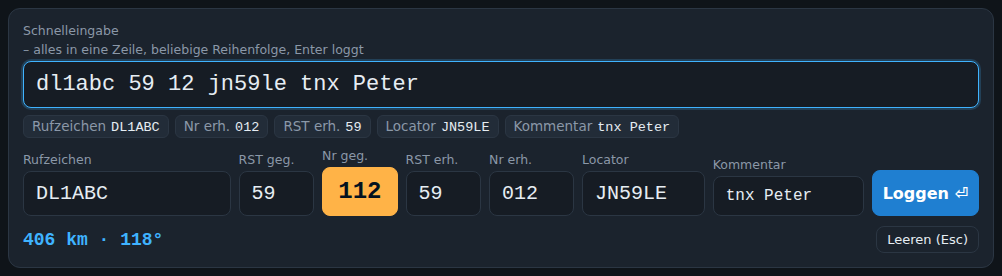
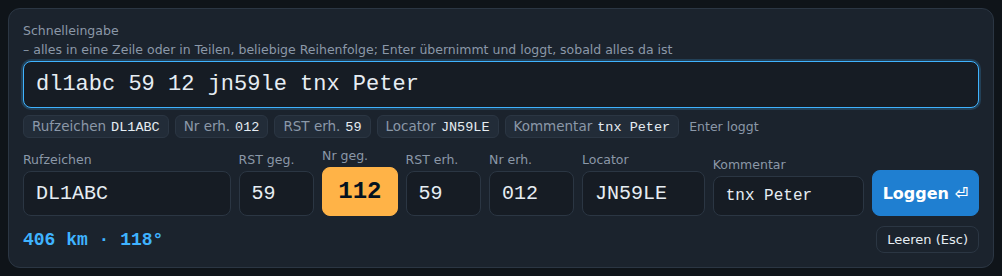
Schnelleingabe in Teilen mit Enter und wahlweise unter den Eingabefeldern
- Enter übernimmt das Getippte ins QSO und leert die Zeile für den nächsten Teil (z. B. erst „DL1ABC“, dann „012 57“);
  sobald Rufzeichen, Locator und je nach Contest Nr erh. bzw. DOK erh. da sind, loggt Enter
- Enter auf leerer Zeile loggt auch ohne Nr erh.; fehlt noch etwas, sagt ein Hinweis was
- Neue Teile ersetzen den übernommenen Wert im selben Feld (Korrektur), Kommentare werden angehängt; ist die Nummer
  schon übernommen, gilt eine einzelne RST-Zahl (57) als RST
- Unter den erkannten Teilen steht „Enter loggt“ bzw. „noch fehlt: …“; Änderungen von Hand in den Feldern zählen als übernommen
- ⚙ Einstellungen: Position der Schnelleingabe über oder unter den Eingabefeldern (je Browser)
- Behoben: nach dem Loggen ging der Cursor in der Schnelleingabe verloren
- Hilfe, README und Wiki (Loggen, Tastenkürzel, Erste Schritte) angepasst, Bilder neu

Changed region(s): [[0.1238, 0.1449, 0.6806, 0.2029], [0.6806, 0.4348, 0.7735, 0.4928]]

diff --git a/contestlogger/static/app.js b/contestlogger/static/app.js
@@ -6,6 +6,7 @@
   const S = {
     nick: localStorage.getItem("cl.nick") || "",
     quick: localStorage.getItem("cl.quick") === "1",  // Schnelleingabe (eine Zeile) – je Browser
+    quickPos: localStorage.getItem("cl.quickPos") === "below" ? "below" : "above",  // Zeile über oder unter den Feldern
     adminToken: localStorage.getItem("cl.admin") || "",
     stationTokens: JSON.parse(localStorage.getItem("cl.stationTokens") || "{}"),
     contests: [],
@@ -302,8 +303,9 @@
   // ------------------------------------------------------------ Einstellungen (je Browser): Nutzername, Sprache, Schnelleingabe
   function settingsDialog() {
     const box = modal(fromTpl("tpl-settings"));
-    const nick = box.querySelector("#set-nick"), lang = box.querySelector("#set-lang"), quick = box.querySelector("#set-quick");
-    nick.value = S.nick; quick.checked = S.quick;
+    const nick = box.querySelector("#set-nick"), lang = box.querySelector("#set-lang"), quick = box.querySelector("#set-quick"), pos = box.querySelector("#set-quickpos");
+    nick.value = S.nick; quick.checked = S.quick; pos.value = S.quickPos;
+    const showPos = () => pos.closest("label").classList.toggle("hidden", !quick.checked); showPos(); quick.addEventListener("change", showPos);
     fillLangSelect(lang);
     setTimeout(() => nick.focus(), 30);
     box.querySelector("#settings-form").addEventListener("submit", (e) => {
@@ -315,7 +317,8 @@
         S.nick = n; save(); $("#nick-badge").textContent = S.nick;
         if (S.ws) { try { S.ws.close(); } catch (_) { /* */ } }  // neu verbinden, damit Chat und Nutzerliste den neuen Namen zeigen
       }
-      S.quick = quick.checked; localStorage.setItem("cl.quick", S.quick ? "1" : "0"); applyQuickMode();
+      S.quick = quick.checked; localStorage.setItem("cl.quick", S.quick ? "1" : "0");
+      S.quickPos = pos.value === "below" ? "below" : "above"; localStorage.setItem("cl.quickPos", S.quickPos); applyQuickMode();
       closeModal();
       if ($("#view-log").classList.contains("active")) setTimeout(() => (S.quick ? Q : F.call).focus(), 30);
       if (langChanged) { localStorage.setItem("cl.lang", lang.value); location.reload(); return; }
@@ -654,7 +657,7 @@
     F.call.value = ""; F.rs.value = "59"; F.rr.value = "59"; F.nr.value = ""; F.dok.value = ""; F.loc.value = ""; F.cmt.value = "";
     S.locAuto = false; F.loc.classList.remove("auto"); F.dok.classList.remove("auto");
     S.editingId = null; $("#qso-form button.primary").textContent = t("Loggen ⏎");
-    Q.value = ""; S.quickRes = null;
+    Q.value = ""; S.quickRes = null; S.quickBase = emptyQuick();
     hideSuggest(); updateHints(); (S.quick ? Q : F.call).focus();
   }
   $("#btn-clear")?.addEventListener("click", clearForm);
@@ -703,38 +706,61 @@
   F.call.addEventListener("blur", () => setTimeout(hideSuggest, 150));
   F.nr.addEventListener("blur", () => { if (/^\d+$/.test(F.nr.value)) F.nr.value = pad3(Number(F.nr.value)); });
 
-  // ---- Schnelleingabe: alles in eine Zeile („DL1ABC JO31AA 012 57 G01“, beliebige Reihenfolge), Enter loggt.
-  // Die Zeile füllt live die normalen Felder (die sich weiter von Hand korrigieren lassen); eigene Angaben (RST geg.,
-  // Nr geg.) bleiben unberührt. Ein- und ausschalten je Browser über ⚙ Einstellungen.
+  // ---- Schnelleingabe: alles in eine Zeile („DL1ABC JO31AA 012 57 G01“, beliebige Reihenfolge) – oder in mehreren
+  // Schritten: Enter übernimmt das Getippte ins QSO und leert die Zeile; sobald alles Nötige da ist (Rufzeichen, Locator,
+  // Nr erh. bzw. DOK erh.), loggt Enter. Enter auf leerer Zeile loggt auch ohne Nr erh. Die Zeile füllt live die normalen
+  // Felder (die sich weiter von Hand korrigieren lassen); eigene Angaben (RST geg., Nr geg.) bleiben unberührt.
+  // Ein/aus und Position (über/unter den Feldern) je Browser über ⚙ Einstellungen.
+  const emptyQuick = () => ({ call: "", locator: "", serial: "", rst: "", dok: "", comment: "" });
+  S.quickBase = emptyQuick();  // schon mit Enter übernommene (oder von Hand in die Felder getippte) Angaben
   function applyQuickMode() {
-    $("#quick-row").classList.toggle("hidden", !S.quick);
+    const row = $("#quick-row"), fields = $("#qso-form .fields");
+    // nur umhängen, wenn sich die Position ändert – jedes Umhängen nimmt dem Eingabefeld den Fokus
+    if (S.quickPos === "below" && fields.nextElementSibling !== row) fields.after(row);
+    else if (S.quickPos !== "below" && row.nextElementSibling !== fields) fields.before(row);
+    row.classList.toggle("below", S.quickPos === "below");
+    row.classList.toggle("hidden", !S.quick);
     $("#qso-form").classList.toggle("quick", S.quick);
     Q.placeholder = hasDok() ? (hasSerial() ? "DL1ABC JO31AA 012 57 G01" : "DL1ABC JO31AA G01 57") : "DL1ABC JO31AA 012 57";
     renderQuick();
   }
   function applyQuick() {
-    const st = station() || {};
-    const r = BeamQuick.parse(Q.value, { mode: st.mode, serial: hasSerial(), dok: hasDok() });
-    const callChanged = F.call.value !== r.call;
-    F.call.value = r.call;
-    if (r.locator) { F.loc.value = r.locator; S.locAuto = false; F.loc.classList.remove("auto"); }
+    const st = station() || {}, b = S.quickBase;
+    const r = BeamQuick.parse(Q.value, { mode: st.mode, serial: hasSerial(), dok: hasDok(), haveSerial: !!b.serial, haveRst: !!b.rst });
+    // Neues aus der Zeile ersetzt das Übernommene im selben Feld (Korrektur), der Kommentar wird ergänzt
+    const m = { call: r.call || b.call, locator: r.locator || b.locator, serial: r.serial || b.serial, rst: r.rst || b.rst,
+      dok: r.dok || b.dok, comment: [b.comment, r.comment].filter(Boolean).join(" ") };
+    const callChanged = F.call.value !== m.call;
+    F.call.value = m.call;
+    if (m.locator) { F.loc.value = m.locator; S.locAuto = false; F.loc.classList.remove("auto"); }
     else if (!S.locAuto || callChanged) { F.loc.value = ""; S.locAuto = false; F.loc.classList.remove("auto"); }
-    if (r.dok) { F.dok.value = r.dok; F.dok.classList.remove("auto"); }
+    if (m.dok) { F.dok.value = m.dok; F.dok.classList.remove("auto"); }
     else if (!F.dok.classList.contains("auto") || callChanged) { F.dok.value = ""; F.dok.classList.remove("auto"); }
-    F.nr.value = r.serial; F.rr.value = r.rst || "59"; F.cmt.value = r.comment;
-    if (callChanged) { clearTimeout(lookupTimer); hideAltLocs(); if (r.call.length >= 3) lookupTimer = setTimeout(lookupCall, 150); }
-    S.quickRes = r;
+    F.nr.value = m.serial; F.rr.value = m.rst || "59"; F.cmt.value = m.comment;
+    if (callChanged) { clearTimeout(lookupTimer); hideAltLocs(); if (m.call.length >= 3) lookupTimer = setTimeout(lookupCall, 150); }
+    S.quickRes = { ...m, notes: r.notes };
     updateHints(); sendTyping();
-    return r;
+    return S.quickRes;
   }
+  function quickFromFields() {  // Felder von Hand geändert: zählt als übernommen
+    S.quickBase = { call: F.call.value.trim().toUpperCase(), locator: S.locAuto ? "" : F.loc.value.trim().toUpperCase(), serial: F.nr.value.trim(),
+      rst: F.rr.value.trim() === "59" ? "" : F.rr.value.trim(), dok: F.dok.classList.contains("auto") ? "" : F.dok.value.trim().toUpperCase(), comment: F.cmt.value.trim() };
+    S.quickRes = { ...S.quickBase, notes: [] };
+  }
+  const quickMissing = (full) => [
+    F.call.value.trim().length < 3 && t("Rufzeichen"),
+    full && hasSerial() && !F.nr.value.trim() && t("Nr erh."),
+    hasDok() && !F.dok.value.trim() && t("DOK erh."),
+    F.loc.value.trim().length < 4 && t("Locator"),
+  ].filter(Boolean);
   function hideAltLocs() { $("#hint-altloc").classList.add("hidden"); }
   function renderQuick() {
     const box = $("#quick-parsed"); if (!box) return;
     box.innerHTML = "";
     if (!S.quick) return;
     const r = S.quickRes;
-    if (!r || !Q.value.trim()) {
-      box.append(t("Erkannt werden Rufzeichen, Locator, Nr erh., RST erh. (51–59, CW 511–599; sonst „r44“) und DOK – Reihenfolge egal."));
+    if (!r || (!Q.value.trim() && !Object.values(S.quickBase).some(Boolean))) {
+      box.append(t("Erkannt werden Rufzeichen, Locator, Nr erh., RST erh. (51–59, CW 511–599; sonst „r44“) und DOK – Reihenfolge egal; Enter übernimmt und loggt, sobald alles da ist."));
       return;
     }
     const chip = (label, val, cls = "") => box.append(el("span", { class: "qp " + cls }, el("b", {}, label), val));
@@ -745,19 +771,27 @@
     chip(t("Locator"), F.loc.value || "–", F.loc.value ? (S.locAuto ? "auto" : "") : "miss");
     if (F.cmt.value) chip(t("Kommentar"), F.cmt.value);
     for (const n of r.notes) if (n.kind === "ambiguous") chip("⚠", t("{a} / {b}: RST oder Nummer? Eindeutig mit r57 bzw. #12", { a: n.values[0], b: n.values[1] }), "warn");
+    const miss = quickMissing(true);
+    box.append(el("span", { class: "qp-state" }, miss.length ? t("Enter übernimmt – noch fehlt: {f}", { f: miss.join(", ") }) : t("Enter loggt")));
   }
   Q.addEventListener("input", applyQuick);
   Q.addEventListener("keydown", async (e) => {
     if (e.key !== "Enter") return;
     e.preventDefault();
+    const typed = Q.value.trim() !== "";
     applyQuick();
-    if (F.call.value.trim().length < 3) { toast(t("Schnelleingabe: kein Rufzeichen erkannt"), "err"); return; }
-    if (F.loc.value.trim().length < 4) await lookupCall();  // Locator noch nicht aus der Stationsdatenbank geholt?
-    if (F.loc.value.trim().length < 4) { renderQuick(); toast(t("Schnelleingabe: Locator fehlt"), "err"); return; }
-    if (hasDok() && !F.dok.value.trim()) { toast(t("Schnelleingabe: DOK fehlt"), "err"); return; }
-    submitQso();
+    if (typed) { const { notes, ...m } = S.quickRes; S.quickBase = m; Q.value = ""; }  // übernehmen, Zeile frei für den nächsten Teil
+    if (F.call.value.trim().length >= 3 && F.loc.value.trim().length < 4) await lookupCall();  // Locator aus der Stationsdatenbank abwarten
+    renderQuick();
+    // mit Eingabe: loggen, wenn alles da ist (auch Nr erh.); auf leerer Zeile genügt das Nötigste
+    const miss = quickMissing(typed);
+    if (!miss.length) return submitQso();
+    if (!typed) toast(t("Schnelleingabe: es fehlt noch {f}", { f: miss.join(", ") }), "err");
   });
-  [F.call, F.nr, F.rr, F.dok, F.loc, F.cmt].forEach((f) => f.addEventListener("input", () => { if (S.quick) renderQuick(); }));
+  [F.call, F.nr, F.rr, F.dok, F.loc, F.cmt].forEach((f) => f.addEventListener("input", () => {
+    if (!S.quick) return;
+    Q.value = ""; quickFromFields(); renderQuick();  // von Hand korrigiert: Zeile ist damit übernommen
+  }));
   applyQuickMode();
 
   const coreOf = (call) => (call || "").trim().toUpperCase().replace(/-.*$/, "").split("/").filter((p) => !["P", "M", "MM", "AM", "QRP"].includes(p) && !/^\d+$/.test(p)).sort((a, b) => b.length - a.length)[0] || "";
@@ -986,7 +1020,7 @@
       ...H(t("Loggen (Eingabeformular)"),
         K(["Enter"], t("Weiter zum nächsten nötigen Feld (wie Tab: Rufzeichen → Nr erh. → Locator → Kommentar; RST nur per Klick). Stehen Rufzeichen und Locator, wird im Feld Nr erh., Locator oder Kommentar das QSO geloggt.")),
         K(["Leertaste"], t("Springt wie Tab und Enter nur über die nötigen Felder: Rufzeichen → Nr erh. → Locator → Kommentar → Rufzeichen (im Rufzeichenfeld wird dabei die Stationsdatenbank abgefragt). Im Kommentar bleibt die Leertaste ein Leerzeichen.")),
-        K(["⚙", t("Schnelleingabe")], t("Alles in eine Zeile, Reihenfolge egal, z. B. „DL1ABC JO31AA 012 57 G01“ – BeamLog erkennt Rufzeichen, Locator, Nr erh., RST erh. (51–59, CW 511–599) und DOK; Enter loggt. Eindeutig machen: r44 = RST, #12 = Nummer. Einschalten unter ⚙ Einstellungen (je Browser).")),
+        K(["⚙", t("Schnelleingabe")], t("Alles in eine Zeile, Reihenfolge egal, z. B. „DL1ABC JO31AA 012 57 G01“ – BeamLog erkennt Rufzeichen, Locator, Nr erh., RST erh. (51–59, CW 511–599) und DOK; Enter übernimmt auch Teile (z. B. erst Rufzeichen, dann Nummer) und loggt, sobald alles da ist; Enter auf leerer Zeile loggt ohne Nr erh. Eindeutig machen: r44 = RST, #12 = Nummer. Ein/aus und Position (über/unter den Feldern) unter ⚙ Einstellungen (je Browser).")),
         K(["DOK"], t("Ist der Austausch des Contests „DOK/OV“ (Verwaltung → Contest), erscheint statt der Nummer das Feld „DOK erh.“; bei „Nummer + DOK“ beides. Der DOK wird aus der Stationsdatenbank vorbelegt.")),
         K(["↑", "↓"], t("In der Vorschlagsliste unter dem Rufzeichen blättern.")),
         K(["Enter", "Tab"], t("Markierten Vorschlag übernehmen (Rufzeichen und Locator).")),

diff --git a/contestlogger/static/quickentry.js b/contestlogger/static/quickentry.js
@@ -7,7 +7,8 @@
  *  - RST ist plausibel, wenn er mit 5 beginnt: 51–59 (Sprechfunk) bzw. 511–599 (CW); 4x, 3x … sind sehr selten und
  *    gelten als Nummer – ausdrücklich als RST mit „r“ davor: r44, rst449. Nummer ausdrücklich: #12 oder nr12.
  *  - Führende Null (012, 059) = immer Nummer.
- *  - Eine einzelne Zahl ist die Nummer (bei reinem DOK-Austausch der RST).
+ *  - Eine einzelne Zahl ist die Nummer (bei reinem DOK-Austausch der RST; ist die Nummer schon übernommen, ist eine
+ *    plausible RST-Zahl der RST).
  *  - Zwei Zahlen: die plausible RST-Zahl ist der RST, die andere die Nummer; sind beide plausibel (57 55), gilt
  *    59/599 als RST, sonst die zweite – mit Hinweis „mehrdeutig“.
  */
@@ -27,7 +28,8 @@
     return phone || cw;  // MIXED / unbekannt
   }
 
-  /** opts: { mode: "SSB"|"CW"|"FM"|"MIXED", serial: bool (Nummer im Austausch), dok: bool (DOK im Austausch) } */
+  /** opts: { mode: "SSB"|"CW"|"FM"|"MIXED", serial: bool (Nummer im Austausch), dok: bool (DOK im Austausch),
+   *          haveSerial / haveRst: bool – schon mit Enter übernommen (Eingabe in mehreren Schritten) } */
   function parse(line, opts) {
     opts = Object.assign({ mode: "SSB", serial: true, dok: false }, opts || {});
     const out = { call: "", locator: "", serial: "", rst: "", dok: "", comment: "", notes: [] };
@@ -53,7 +55,11 @@
     } else {
       if (out.serial && !out.rst) { const r = nums.find(isRst); if (r) out.rst = take(r); }
       if (!out.serial && out.rst && nums.length) out.serial = take(nums[0]);
-      if (!out.serial && !out.rst && nums.length === 1) out.serial = take(nums[0]);
+      if (!out.serial && !out.rst && nums.length === 1) {
+        // schon übernommene Nummer (Enter vorher) und noch kein RST: eine plausible RST-Zahl ist dann der RST
+        if (opts.haveSerial && !opts.haveRst && isRst(nums[0])) out.rst = take(nums[0]);
+        else out.serial = take(nums[0]);
+      }
       if (!out.serial && !out.rst && nums.length >= 2) {
         const cands = nums.filter(isRst);
         let r = null;

diff --git a/contestlogger/static/index.html b/contestlogger/static/index.html
@@ -68,7 +68,7 @@
             </div>
           </div>
           <div id="quick-row" class="quick-row hidden">
-            <label class="f-quick">Schnelleingabe <span class="muted small">– alles in eine Zeile, beliebige Reihenfolge, Enter loggt</span>
+            <label class="f-quick">Schnelleingabe <span class="muted small">– alles in eine Zeile oder in Teilen, beliebige Reihenfolge; Enter übernimmt und loggt, sobald alles da ist</span>
               <input id="f-quick" placeholder="DL1ABC JO31AA 012 57" spellcheck="false" autocomplete="off"></label>
             <div id="quick-parsed" class="quick-parsed muted small"></div>
           </div>
@@ -408,7 +408,8 @@
       <input id="set-nick" maxlength="24" required></label>
     <label>Sprache der Oberfläche<select id="set-lang"></select></label>
     <label class="check"><input type="checkbox" id="set-quick"> Schnelleingabe: alles in eine Zeile
-      <span class="muted small">– z. B. „DL1ABC JO31AA 012 57 G01“ in beliebiger Reihenfolge; BeamLog erkennt Rufzeichen, Locator, Nr erh., RST erh. und DOK selbst, Enter loggt</span></label>
+      <span class="muted small">– z. B. „DL1ABC JO31AA 012 57 G01“ in beliebiger Reihenfolge oder in Teilen; BeamLog erkennt Rufzeichen, Locator, Nr erh., RST erh. und DOK selbst – Enter übernimmt und loggt, sobald alles da ist</span></label>
+    <label>Position der Schnelleingabe<select id="set-quickpos"><option value="above">über den Eingabefeldern</option><option value="below">unter den Eingabefeldern</option></select></label>
     <div class="row"><button class="primary">Speichern</button><button type="button" class="ghost" data-close="1">Abbrechen</button></div>
   </form>
 </template>

diff --git a/contestlogger/static/style.css b/contestlogger/static/style.css
@@ -452,3 +452,5 @@ button.unlock-btn:hover { filter: brightness(1.08); }
 .quick-parsed .qp.warn { color: var(--warn); border-color: var(--warn); }
 #settings-form label.check { flex-direction: row; align-items: baseline; gap: 6px; flex-wrap: wrap; color: var(--text); font-size: 14px; }
 #settings-form label.check .muted { flex-basis: 100%; padding-left: 22px; }
+.quick-row.below { margin: 12px 0 4px; }
+.quick-parsed .qp-state { color: var(--muted); margin-left: 4px; }

diff --git a/tests/test_quickentry.py b/tests/test_quickentry.py
@@ -54,3 +54,11 @@ def test_dok_only_and_comment():
 def test_never_touches_own_data():
     r = parse("DL1ABC JO31AA 012 57")
     assert set(r) == {"call", "locator", "serial", "rst", "dok", "comment", "notes"}             # kein RST geg./Nr geg.
+
+
+def test_stepwise_entry_single_number_after_serial_is_rst():
+    """Eingabe in Teilen (Enter übernimmt): ist die Nummer schon da, ist eine plausible RST-Zahl der RST."""
+    assert fields(parse("57", haveSerial=True))[2:4] == ("", "57")
+    assert fields(parse("57"))[2:4] == ("057", "")                      # ohne übernommene Nummer: Nummer
+    assert fields(parse("123", haveSerial=True))[2:4] == ("123", "")    # keine RST-Zahl: neue Nummer (Korrektur)
+    assert fields(parse("55", haveSerial=True, haveRst=True))[2:4] == ("055", "")

diff --git a/README.md b/README.md
@@ -41,7 +41,7 @@ Ein kleiner Server (portable Datei, kein Python nötig) ist der zentrale Speiche
 
 | | |
 |---|---|
-| **Loggen** | Schnelle Eingabe nur mit der Tastatur (Tab, Enter und Leertaste springen nur über die nötigen Felder) oder als **Schnelleingabe** in einer Zeile in beliebiger Reihenfolge (`DL1ABC JO31AA 012 57 G01`, erkennt RST, Nummer, Locator und DOK selbst); Rufzeichen, RST, Nummern und/oder DOK (Austausch je Contest wählbar, z. B. Köln-Aachen-Contest), Locator, Kommentar; Vorschläge aus der Stationsdatenbank und allen eigenen Logs; Locator, km und Grad automatisch; Dupe-Warnung; Plausibilitätsprüfung Rufzeichen ↔ Locator; Bearbeiten und Löschen; Zeit in UTC |
+| **Loggen** | Schnelle Eingabe nur mit der Tastatur (Tab, Enter und Leertaste springen nur über die nötigen Felder) oder als **Schnelleingabe** in einer Zeile bzw. in Teilen, in beliebiger Reihenfolge (`DL1ABC JO31AA 012 57 G01`, erkennt RST, Nummer, Locator und DOK selbst, Enter loggt, sobald alles da ist); Rufzeichen, RST, Nummern und/oder DOK (Austausch je Contest wählbar, z. B. Köln-Aachen-Contest), Locator, Kommentar; Vorschläge aus der Stationsdatenbank und allen eigenen Logs; Locator, km und Grad automatisch; Dupe-Warnung; Plausibilitätsprüfung Rufzeichen ↔ Locator; Bearbeiten und Löschen; Zeit in UTC |
 | **Stationen und Contests** | Globale Stationen mit Stammdaten (Passwort, KST-Zugang, EDI-Angaben), Contest anlegen mit Stationsauswahl, Operatoren schalten per Passwort frei |
 | **Chat, ON4KST, DM** | Team-Chat je Contest (wer ist online), KST-Chat je Station (Nutzerliste mit km und Richtung, Textbausteine, „an mich“-Markierung); ein Klick auf eine Station übernimmt Rufzeichen und Locator in den Logger; Direktnachrichten wie ein Messenger, Rundruf an noch nicht gearbeitete Stationen im Umkreis |
 | **Operator-Fenster** | Zweiter Monitor: live Rufzeichen, Nummern, RST, Locator, Entfernung/Richtung, Dupe-Warnung, Hinweis vom Logger, Statistik, Karte, letzte QSOs |
@@ -51,7 +51,7 @@ Ein kleiner Server (portable Datei, kein Python nötig) ist der zentrale Speiche
 | **Export / Abgabe** | EDI (REG1TEST) mit Pflicht-Log-Prüfung und Online-Abgleich (HamQTH/QRZ), Cabrillo, ADIF, CSV, alle Bänder als ZIP; Wertung je Contest (km oder Punkte je QSO, Multiplikator Großfelder/DOKs) |
 | **Stationsdatenbank** | Rufzeichen, Locator, Name, DOK; wächst mit jedem QSO, der KST-Nutzerliste, Importen (DARC-Hub mit DOK) und Online-Abfragen; Export und Abgleich mit dem Repo |
 | **CAT** | Frequenz vom Funkgerät (Hamlib, flrig) |
-| **Betrieb** | Backups auf dem Server (crash-sicher), Aktionsprotokoll, Update-Prüfung mit Selbst-Aktualisierung, „Was ist neu“, mehrsprachig, hell/dunkel, ⚙ Einstellungen je Browser (Nutzername, Sprache, Schnelleingabe), Hilfe mit F1 |
+| **Betrieb** | Backups auf dem Server (crash-sicher), Aktionsprotokoll, Update-Prüfung mit Selbst-Aktualisierung, „Was ist neu“, mehrsprachig, hell/dunkel, ⚙ Einstellungen je Browser (Nutzername, Sprache, Schnelleingabe und ihre Position), Hilfe mit F1 |
 
 ## Live-Demo
 

diff --git a/docs/wiki/Loggen.md b/docs/wiki/Loggen.md
@@ -19,8 +19,9 @@ Unter dem Formular: Entfernung in km und Richtung in Grad, Dupe-Warnung („⚠ 
 ## Schnelleingabe: alles in eine Zeile
 
 Wer lieber tippt als Felder anspringt, schaltet unter **⚙ Einstellungen** (oben rechts) die **Schnelleingabe** ein – je
-Browser, nicht je Station; jeder Operator entscheidet selbst. Über dem Formular erscheint dann eine Zeile, in die alles
-nacheinander in **beliebiger Reihenfolge** kommt, getrennt durch Leerzeichen (oder Komma):
+Browser, nicht je Station; jeder Operator entscheidet selbst. Über den Eingabefeldern (oder darunter – ebenfalls in den
+Einstellungen wählbar) erscheint dann eine Zeile, in die alles in **beliebiger Reihenfolge** kommt, getrennt durch
+Leerzeichen (oder Komma):
 
 ```
 DL1ABC JO31AA 012 57 G01
@@ -31,8 +32,23 @@ dl1abc 59 12 jn59le tnx Peter
 ![Schnelleingabe](img/schnelleingabe.png)
 
 BeamLog ordnet jedes Stück selbst zu und füllt live die normalen Felder; darunter steht, was erkannt wurde
-(*Rufzeichen · Nr erh. · RST erh. · DOK erh. · Locator · Kommentar*), fehlende Pflichtangaben gestrichelt. **Enter**
-loggt, **Esc** leert die Zeile. Die eigenen Angaben (*RST geg.*, *Nr geg.*) verändert die Schnelleingabe nie.
+(*Rufzeichen · Nr erh. · RST erh. · DOK erh. · Locator · Kommentar*), fehlende Angaben gestrichelt, dahinter „Enter
+loggt“ bzw. „noch fehlt: …“. **Esc** leert alles. Die eigenen Angaben (*RST geg.*, *Nr geg.*) verändert die
+Schnelleingabe nie.
+
+**Enter übernimmt – auch in Teilen.** Man muss nicht alles in eine Zeile schreiben: Enter übernimmt das Getippte ins
+QSO und leert die Zeile für den nächsten Teil. Sobald alles Nötige da ist – Rufzeichen, Locator und je nach Contest
+Nr erh. und/oder DOK erh. –, loggt Enter. Beispiel:
+
+```
+DL1ABC ⏎        übernommen, Locator kommt aus der Stationsdatenbank – noch fehlt: Nr erh.
+012 57 ⏎        vollständig → geloggt
+```
+
+Ein neuer Teil ersetzt den übernommenen Wert im selben Feld (zum Korrigieren einfach nochmal tippen, z. B. einen
+anderen Locator), ein weiterer Kommentar wird angehängt. Ist die Nummer schon übernommen, gilt eine einzelne
+RST-Zahl (`57`) als RST. **Enter auf leerer Zeile** loggt auch ohne Nr erh., sobald Rufzeichen und Locator (und bei
+DOK-Contests der DOK) stehen. Wer zwischendurch ein Feld von Hand ändert, übernimmt damit den Stand der Zeile.
 
 | Stück | Erkannt als |
 |---|---|

diff --git a/docs/wiki/Tastenkuerzel.md b/docs/wiki/Tastenkuerzel.md
@@ -11,7 +11,7 @@ Im Programm jederzeit mit **F1** oder dem „?“ im Kopf abrufbar.
 | **Tab / Enter / Leertaste** | Springen nur über die nötigen Felder: Rufzeichen → Nr erh. (→ DOK erh.) → Locator → Kommentar. *RST geg.* und *RST erh.* (mit 59 vorbelegt) werden übersprungen – ändern per Mausklick; Umschalt+Tab geht zurück. |
 | **Enter** | Stehen Rufzeichen und Locator, wird in *Nr erh.*, *DOK erh.*, *Locator* oder *Kommentar* das QSO geloggt, sonst geht es ins nächste nötige Feld. |
 | **Leertaste** | Im Rufzeichenfeld wird dabei die Stationsdatenbank abgefragt (Locator wird vorbelegt). Im Kommentar bleibt die Leertaste ein Leerzeichen. |
-| **Schnelleingabe** (⚙ Einstellungen) | Alles in eine Zeile, Reihenfolge egal, z. B. `DL1ABC JO31AA 012 57 G01` – **Enter** loggt, **Esc** leert. `r44` = RST erzwingen, `#12` = Nummer erzwingen. Siehe [Loggen › Schnelleingabe](Loggen.md#schnelleingabe-alles-in-eine-zeile). |
+| **Schnelleingabe** (⚙ Einstellungen) | Alles in eine Zeile oder in Teilen, Reihenfolge egal, z. B. `DL1ABC JO31AA 012 57 G01` – **Enter** übernimmt und loggt, sobald alles da ist (auf leerer Zeile auch ohne Nr erh.), **Esc** leert. `r44` = RST erzwingen, `#12` = Nummer erzwingen. Siehe [Loggen › Schnelleingabe](Loggen.md#schnelleingabe-alles-in-eine-zeile). |
 | **↑ / ↓** | In der Vorschlagsliste unter dem Rufzeichen blättern. |
 | **Enter / Tab** | Markierten Vorschlag übernehmen (Rufzeichen und Locator). |
 | **Esc** | Formular leeren bzw. offenes Fenster schließen. |
@@ -39,6 +39,6 @@ Im Programm jederzeit mit **F1** oder dem „?“ im Kopf abrufbar.
 | **🔔** | Töne an/aus. |
 | **📱** | Adresse des Servers als QR-Code. |
 | **◐** | Hell/Dunkel. |
-| **⚙** (oben rechts) | Einstellungen dieses Browsers: Nutzername, Sprache der Oberfläche, Schnelleingabe ein/aus. Auch per Klick auf den eigenen Namen im Kopf. |
+| **⚙** (oben rechts) | Einstellungen dieses Browsers: Nutzername, Sprache der Oberfläche, Schnelleingabe ein/aus und ihre Position (über oder unter den Eingabefeldern). Auch per Klick auf den eigenen Namen im Kopf. |
 | **⬆ Update** | Erscheint im Kopf, wenn eine neue Version auf GitHub liegt. |
 | **✈ Flugzeuge** (an der Karte) | ADS-B-Ebene ein/aus. |

diff --git a/docs/wiki/Erste-Schritte.md b/docs/wiki/Erste-Schritte.md
@@ -6,7 +6,7 @@ Beim ersten Aufruf der Oberfläche fragt BeamLog nach einem Admin-Passwort. Es s
 
 ## 2. Nickname
 
-Jeder Browser meldet sich mit einem Nickname (z. B. „Lars“). Er erscheint im Chat, in der Anwesenheitsliste („online: Lars@DN2LH/P, Peter@DN2LH“) und im Aktionsprotokoll bei jedem QSO. Ändern: **⚙ Einstellungen** oben rechts (oder Klick auf den Namen im Kopf). Dort stellt jeder Browser außerdem die Sprache der Oberfläche und die [Schnelleingabe](Loggen.md#schnelleingabe-alles-in-eine-zeile) ein – das gilt nur für diesen Browser, nicht für die Station.
+Jeder Browser meldet sich mit einem Nickname (z. B. „Lars“). Er erscheint im Chat, in der Anwesenheitsliste („online: Lars@DN2LH/P, Peter@DN2LH“) und im Aktionsprotokoll bei jedem QSO. Ändern: **⚙ Einstellungen** oben rechts (oder Klick auf den Namen im Kopf). Dort stellt jeder Browser außerdem die Sprache der Oberfläche und die [Schnelleingabe](Loggen.md#schnelleingabe-alles-in-eine-zeile) (ein/aus, über oder unter den Eingabefeldern) ein – das gilt nur für diesen Browser, nicht für die Station.
 
 ![Einstellungen](img/einstellungen.png)
 
